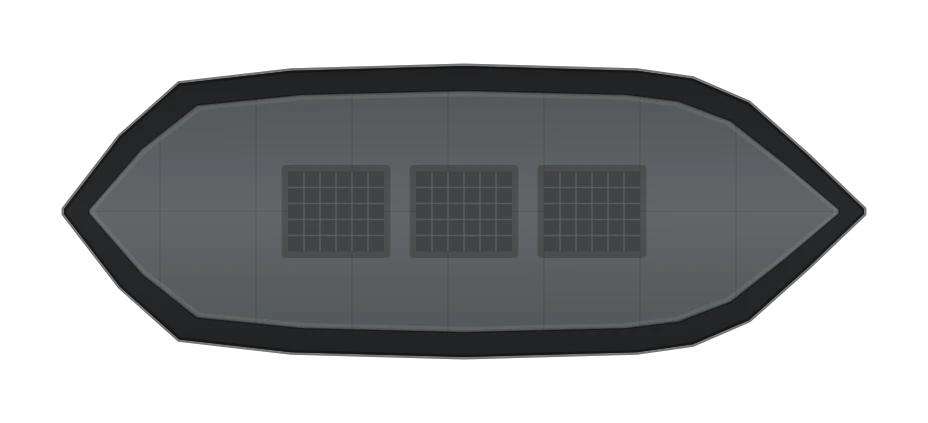
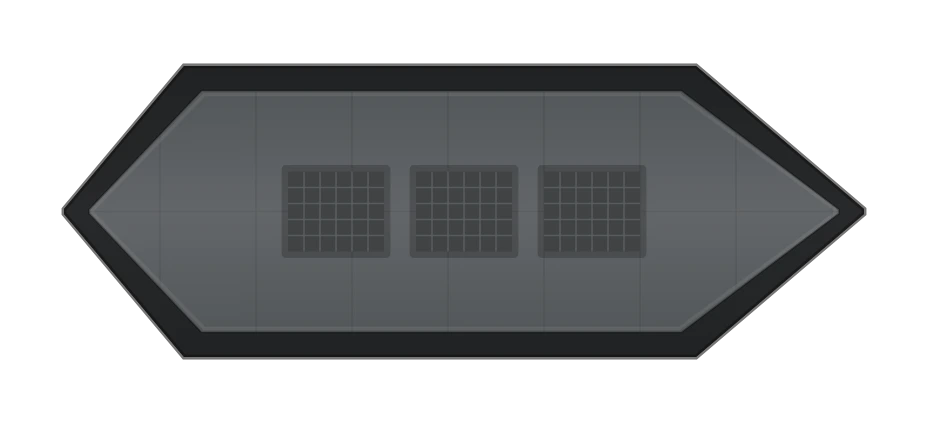
The Sea Shadow straight-edged (a knuckle half-way up, flat plates only) with one band of glass round her bow
Claude-Session: https://claude.ai/code/session_0112riLGXG5MTHHFrrbUDWY5

diff --git a/index.html b/index.html
@@ -531,7 +531,7 @@ const DESIGN_LIST = [
   // the owner's own wish (13 Nov 2026): the Sea Shadow test ship, given a fighting fit she never had. No guns: launch cells in her roof.
   { id: 'co_shadow', cls: 'corvette', name: 'Stealth Missile Boat', tech: 'stealth', yard: 'tidewater', dn: 'Umbra', model: 'Sea Shadow test ship (a fighting fit she never carried)', year: 1985, era: 4, L: 50, B: 18.4, t: 560, kn: 28, td: 300, armor: 0, crew: 24, price: 95000, radar: true,
     // traced from the model the owner sent (13 Nov 2026): a long six-sided plan pointed at both ends, plates leaning in to a narrow flat roof. `dark`: painted near black
-    p: { outline: [[25, 0.15], [21.5, 3.5], [17.8, 6.8], [14.3, 8.3], [10.8, 8.8], [0, 9.1], [-10.8, 8.8], [-17.8, 8.0], [-21.5, 4.7], [-25, 0.15]], stealth: { tumble: true, dark: 0.62, shell: [[19, 0.2], [16.1, 2.2], [0, 2.8], [-15, 3.2], [-17.7, 2.7], [-20.6, 0.2]], shellH: 9 } },
+    p: { outline: [[25, 0.15], [14.5, 9.1], [-17.5, 9.1], [-25, 0.15]], stealth: { tumble: true, dark: 0.62, mid: [[22.6, 0.15], [14.8, 6.2], [-17, 6.2], [-23, 0.15]], shell: [[18.6, 0.15], [15.4, 2.5], [-16.2, 2.5], [-20.4, 0.15]], shellH: 9 } },   // (straight edges only, at his word: 'more angular and edgy')
     slots: [sl('V', 8, 0, ALL, 'ssm'), sl('V', 0, 0, ALL, 'ssm'), sl('V', -8, 0, ALL, 'sam')] },
   { id: 'cv_ford', cls: 'cv', name: 'Nuclear Carrier', tech: 'netcentric', nuc: true, yard: 'tidewater', dn: 'Dominion', model: 'Gerald R. Ford-class carrier', year: 2017, era: 4, L: 337, B: 41, t: 100000, kn: 31, td: 1300, armor: 64, crew: 4550, hangar: 8, price: 640000,
     p: { bow: .3, run: .18, stern: 't', tw: .6, fd: { w: 56, len: .985, x: 0, isl: [-80, 26, 10], ang: true, modern: true, cats: 4, stbd: [-118, 78, 7], lifts: [[36, 1], [-18, 1], [-92, -1]] } },
@@ -1250,19 +1250,24 @@ function panes(g, r) {
 function stealthTop(g, d, P) {
   const p = d.p, S = P.sup, sp = p.stealth;
   let top = 0;
-  if (sp && sp.shell) { // the whole ship one faceted shell (the Sea Shadow): plates leaning in from the waterline to a narrow roof, the launch cells let into it
-    const half = pts => pts.map(([x, y]) => [x, -y]).concat(pts.slice().reverse()), o = p.outline, r = sp.shell;
-    // each point of the outline leans to the point of the roof at the same share of its length, so every side is one flat plate
+  if (sp && sp.shell) { // the whole ship one faceted shell (the Sea Shadow): flat plates from the waterline to a knuckle (`mid`), flatter ones from there to a narrow roof, the launch cells let into it.
+    // The outline, the knuckle and the roof are each given as the same number of points, bow to stern, so every plate is flat and every crease runs true.
+    const half = pts => pts.map(([x, y]) => [x, -y]).concat(pts.slice().reverse()), o = p.outline, m = sp.mid, r = sp.shell;
     const rw = x => { for (let i = 1; i < r.length; i++) if (x >= r[i][0]) { const [x0, y0] = r[i - 1], [x1, y1] = r[i]; return y1 + (y0 - y1) * (x - x1) / (x0 - x1); } return r[r.length - 1][1]; };
-    const ox0 = o[o.length - 1][0], ox1 = o[0][0], rx0 = r[r.length - 1][0], rx1 = r[0][0];
-    const base = half(o), roof = base.map(([x, y]) => { const xr = rx0 + (x - ox0) / (ox1 - ox0) * (rx1 - rx0); return [xr, Math.sign(y || 1) * rw(xr)]; });
-    const SD = sp.dark ? shade(S, -sp.dark) : S;
-    facet(g, P, base, roof, 0, sp.shellH, { noAo: true, lift: -0.04, col: SD });
+    const SD = sp.dark ? shade(S, -sp.dark) : S, hk = sp.shellH * 0.45;
+    facet(g, P, half(o), half(m), 0, hk, { noAo: true, lift: -0.06, col: SD });
+    facet(g, P, half(m), half(r), hk, sp.shellH, { noAo: true, lift: 0.0, col: SD });
     if (!HM.on) {
-      const rp = half(r); g.beginPath(); rp.forEach(([x, y], i) => i ? g.lineTo(x, y) : g.moveTo(x, y)); g.closePath(); g.fillStyle = shade(SD, 0.0); g.fill(); g.strokeStyle = 'rgba(0,0,0,.3)'; g.lineWidth = 0.1; g.stroke();
+      const poly = pts => { g.beginPath(); pts.forEach(([x, y], i) => i ? g.lineTo(x, y) : g.moveTo(x, y)); g.closePath(); };
+      poly(half(r)); g.fillStyle = shade(SD, 0.04); g.fill();
+      g.strokeStyle = 'rgba(255,255,255,.13)'; g.lineWidth = 0.09; poly(half(m)); g.stroke(); poly(half(r)); g.stroke();   // the light along each knuckle: hard edges
       for (const sl of d.slots) if (sl.s === 'V') { const cw = 5.2, ch = Math.min(4.4, rw(sl.x) * 2 - 1); g.fillStyle = sp.dark ? shade(SD, -0.45) : shade(P.deck, -0.3); g.fillRect(sl.x - cw / 2, sl.y - ch / 2, cw, ch);   // launch cells, their lids flush with the roof
         g.strokeStyle = 'rgba(200,205,205,.2)'; g.lineWidth = 0.1; g.beginPath(); for (let i = 1; i < 4; i++) { g.moveTo(sl.x - cw / 2 + i * cw / 4, sl.y - ch / 2); g.lineTo(sl.x - cw / 2 + i * cw / 4, sl.y + ch / 2); } g.moveTo(sl.x - cw / 2, sl.y); g.lineTo(sl.x + cw / 2, sl.y); g.stroke(); }
-      for (const sy of [-1, 1]) { g.save(); g.translate(r[1][0] + 1.6, sy * (r[1][1] + 1.5)); g.rotate(-sy * 0.75); g.fillStyle = '#27485c'; g.fillRect(-1.6, -0.45, 3.2, 0.9); g.fillStyle = 'rgba(150,190,205,.6)'; g.fillRect(-1.6, sy > 0 ? -0.45 : 0.2, 3.2, 0.25); g.strokeStyle = 'rgba(0,0,0,.5)'; g.lineWidth = 0.08; g.strokeRect(-1.6, -0.45, 3.2, 0.9); g.restore(); }   // the bridge windows, in the forward plates
+      // the bridge windows: one band of glass round the bow, just under the roof (the owner's sketch, 13 Nov 2026)
+      const mix = (a, b, t) => [a[0] + (b[0] - a[0]) * t, a[1] + (b[1] - a[1]) * t], neg = q => [q[0], -q[1]];
+      const top = [neg(mix(r[1], r[2], 0.14)), neg(r[1]), neg(r[0]), r[0], r[1], mix(r[1], r[2], 0.14)], foot = [neg(mix(m[1], m[2], 0.14)), neg(m[1]), neg(m[0]), m[0], m[1], mix(m[1], m[2], 0.14)];
+      const band = (t0, t1, col) => { g.beginPath(); top.forEach((q, i) => { const [x, y] = mix(q, foot[i], t0); i ? g.lineTo(x, y) : g.moveTo(x, y); }); for (let i = top.length - 1; i >= 0; i--) { const [x, y] = mix(top[i], foot[i], t1); g.lineTo(x, y); } g.closePath(); g.fillStyle = col; g.fill(); };
+      band(0.14, 0.52, '#2a556f'); band(0.14, 0.24, 'rgba(170,210,225,.6)');
       g.fillStyle = P.ens; g.fillRect(-d.L / 2 + 0.4, -0.6, 1.4, 1.2); }
     return; }
   (p.sup || []).forEach(([x, len, w, tiers = 1], bi) => {

diff --git a/src/game.html b/src/game.html
@@ -528,7 +528,7 @@ const DESIGN_LIST = [
   // the owner's own wish (13 Nov 2026): the Sea Shadow test ship, given a fighting fit she never had. No guns: launch cells in her roof.
   { id: 'co_shadow', cls: 'corvette', name: 'Stealth Missile Boat', tech: 'stealth', yard: 'tidewater', dn: 'Umbra', model: 'Sea Shadow test ship (a fighting fit she never carried)', year: 1985, era: 4, L: 50, B: 18.4, t: 560, kn: 28, td: 300, armor: 0, crew: 24, price: 95000, radar: true,
     // traced from the model the owner sent (13 Nov 2026): a long six-sided plan pointed at both ends, plates leaning in to a narrow flat roof. `dark`: painted near black
-    p: { outline: [[25, 0.15], [21.5, 3.5], [17.8, 6.8], [14.3, 8.3], [10.8, 8.8], [0, 9.1], [-10.8, 8.8], [-17.8, 8.0], [-21.5, 4.7], [-25, 0.15]], stealth: { tumble: true, dark: 0.62, shell: [[19, 0.2], [16.1, 2.2], [0, 2.8], [-15, 3.2], [-17.7, 2.7], [-20.6, 0.2]], shellH: 9 } },
+    p: { outline: [[25, 0.15], [14.5, 9.1], [-17.5, 9.1], [-25, 0.15]], stealth: { tumble: true, dark: 0.62, mid: [[22.6, 0.15], [14.8, 6.2], [-17, 6.2], [-23, 0.15]], shell: [[18.6, 0.15], [15.4, 2.5], [-16.2, 2.5], [-20.4, 0.15]], shellH: 9 } },   // (straight edges only, at his word: 'more angular and edgy')
     slots: [sl('V', 8, 0, ALL, 'ssm'), sl('V', 0, 0, ALL, 'ssm'), sl('V', -8, 0, ALL, 'sam')] },
   { id: 'cv_ford', cls: 'cv', name: 'Nuclear Carrier', tech: 'netcentric', nuc: true, yard: 'tidewater', dn: 'Dominion', model: 'Gerald R. Ford-class carrier', year: 2017, era: 4, L: 337, B: 41, t: 100000, kn: 31, td: 1300, armor: 64, crew: 4550, hangar: 8, price: 640000,
     p: { bow: .3, run: .18, stern: 't', tw: .6, fd: { w: 56, len: .985, x: 0, isl: [-80, 26, 10], ang: true, modern: true, cats: 4, stbd: [-118, 78, 7], lifts: [[36, 1], [-18, 1], [-92, -1]] } },
@@ -1247,19 +1247,24 @@ function panes(g, r) {
 function stealthTop(g, d, P) {
   const p = d.p, S = P.sup, sp = p.stealth;
   let top = 0;
-  if (sp && sp.shell) { // the whole ship one faceted shell (the Sea Shadow): plates leaning in from the waterline to a narrow roof, the launch cells let into it
-    const half = pts => pts.map(([x, y]) => [x, -y]).concat(pts.slice().reverse()), o = p.outline, r = sp.shell;
-    // each point of the outline leans to the point of the roof at the same share of its length, so every side is one flat plate
+  if (sp && sp.shell) { // the whole ship one faceted shell (the Sea Shadow): flat plates from the waterline to a knuckle (`mid`), flatter ones from there to a narrow roof, the launch cells let into it.
+    // The outline, the knuckle and the roof are each given as the same number of points, bow to stern, so every plate is flat and every crease runs true.
+    const half = pts => pts.map(([x, y]) => [x, -y]).concat(pts.slice().reverse()), o = p.outline, m = sp.mid, r = sp.shell;
     const rw = x => { for (let i = 1; i < r.length; i++) if (x >= r[i][0]) { const [x0, y0] = r[i - 1], [x1, y1] = r[i]; return y1 + (y0 - y1) * (x - x1) / (x0 - x1); } return r[r.length - 1][1]; };
-    const ox0 = o[o.length - 1][0], ox1 = o[0][0], rx0 = r[r.length - 1][0], rx1 = r[0][0];
-    const base = half(o), roof = base.map(([x, y]) => { const xr = rx0 + (x - ox0) / (ox1 - ox0) * (rx1 - rx0); return [xr, Math.sign(y || 1) * rw(xr)]; });
-    const SD = sp.dark ? shade(S, -sp.dark) : S;
-    facet(g, P, base, roof, 0, sp.shellH, { noAo: true, lift: -0.04, col: SD });
+    const SD = sp.dark ? shade(S, -sp.dark) : S, hk = sp.shellH * 0.45;
+    facet(g, P, half(o), half(m), 0, hk, { noAo: true, lift: -0.06, col: SD });
+    facet(g, P, half(m), half(r), hk, sp.shellH, { noAo: true, lift: 0.0, col: SD });
     if (!HM.on) {
-      const rp = half(r); g.beginPath(); rp.forEach(([x, y], i) => i ? g.lineTo(x, y) : g.moveTo(x, y)); g.closePath(); g.fillStyle = shade(SD, 0.0); g.fill(); g.strokeStyle = 'rgba(0,0,0,.3)'; g.lineWidth = 0.1; g.stroke();
+      const poly = pts => { g.beginPath(); pts.forEach(([x, y], i) => i ? g.lineTo(x, y) : g.moveTo(x, y)); g.closePath(); };
+      poly(half(r)); g.fillStyle = shade(SD, 0.04); g.fill();
+      g.strokeStyle = 'rgba(255,255,255,.13)'; g.lineWidth = 0.09; poly(half(m)); g.stroke(); poly(half(r)); g.stroke();   // the light along each knuckle: hard edges
       for (const sl of d.slots) if (sl.s === 'V') { const cw = 5.2, ch = Math.min(4.4, rw(sl.x) * 2 - 1); g.fillStyle = sp.dark ? shade(SD, -0.45) : shade(P.deck, -0.3); g.fillRect(sl.x - cw / 2, sl.y - ch / 2, cw, ch);   // launch cells, their lids flush with the roof
         g.strokeStyle = 'rgba(200,205,205,.2)'; g.lineWidth = 0.1; g.beginPath(); for (let i = 1; i < 4; i++) { g.moveTo(sl.x - cw / 2 + i * cw / 4, sl.y - ch / 2); g.lineTo(sl.x - cw / 2 + i * cw / 4, sl.y + ch / 2); } g.moveTo(sl.x - cw / 2, sl.y); g.lineTo(sl.x + cw / 2, sl.y); g.stroke(); }
-      for (const sy of [-1, 1]) { g.save(); g.translate(r[1][0] + 1.6, sy * (r[1][1] + 1.5)); g.rotate(-sy * 0.75); g.fillStyle = '#27485c'; g.fillRect(-1.6, -0.45, 3.2, 0.9); g.fillStyle = 'rgba(150,190,205,.6)'; g.fillRect(-1.6, sy > 0 ? -0.45 : 0.2, 3.2, 0.25); g.strokeStyle = 'rgba(0,0,0,.5)'; g.lineWidth = 0.08; g.strokeRect(-1.6, -0.45, 3.2, 0.9); g.restore(); }   // the bridge windows, in the forward plates
+      // the bridge windows: one band of glass round the bow, just under the roof (the owner's sketch, 13 Nov 2026)
+      const mix = (a, b, t) => [a[0] + (b[0] - a[0]) * t, a[1] + (b[1] - a[1]) * t], neg = q => [q[0], -q[1]];
+      const top = [neg(mix(r[1], r[2], 0.14)), neg(r[1]), neg(r[0]), r[0], r[1], mix(r[1], r[2], 0.14)], foot = [neg(mix(m[1], m[2], 0.14)), neg(m[1]), neg(m[0]), m[0], m[1], mix(m[1], m[2], 0.14)];
+      const band = (t0, t1, col) => { g.beginPath(); top.forEach((q, i) => { const [x, y] = mix(q, foot[i], t0); i ? g.lineTo(x, y) : g.moveTo(x, y); }); for (let i = top.length - 1; i >= 0; i--) { const [x, y] = mix(top[i], foot[i], t1); g.lineTo(x, y); } g.closePath(); g.fillStyle = col; g.fill(); };
+      band(0.14, 0.52, '#2a556f'); band(0.14, 0.24, 'rgba(170,210,225,.6)');
       g.fillStyle = P.ens; g.fillRect(-d.L / 2 + 0.4, -0.6, 1.4, 1.2); }
     return; }
   (p.sup || []).forEach(([x, len, w, tiers = 1], bi) => {
